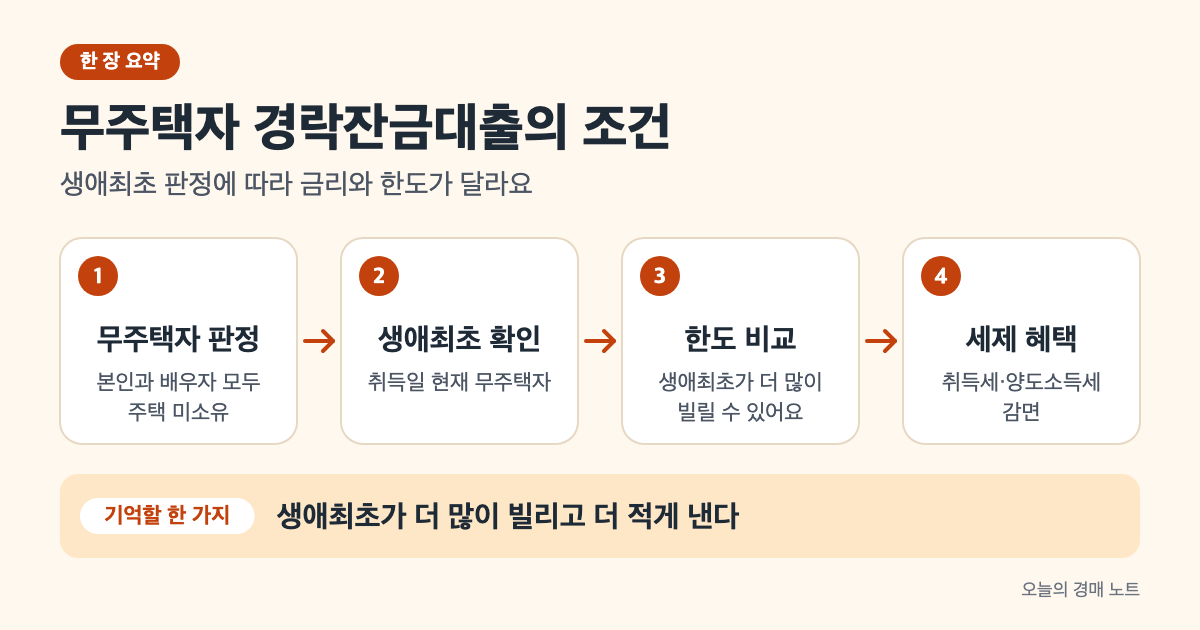
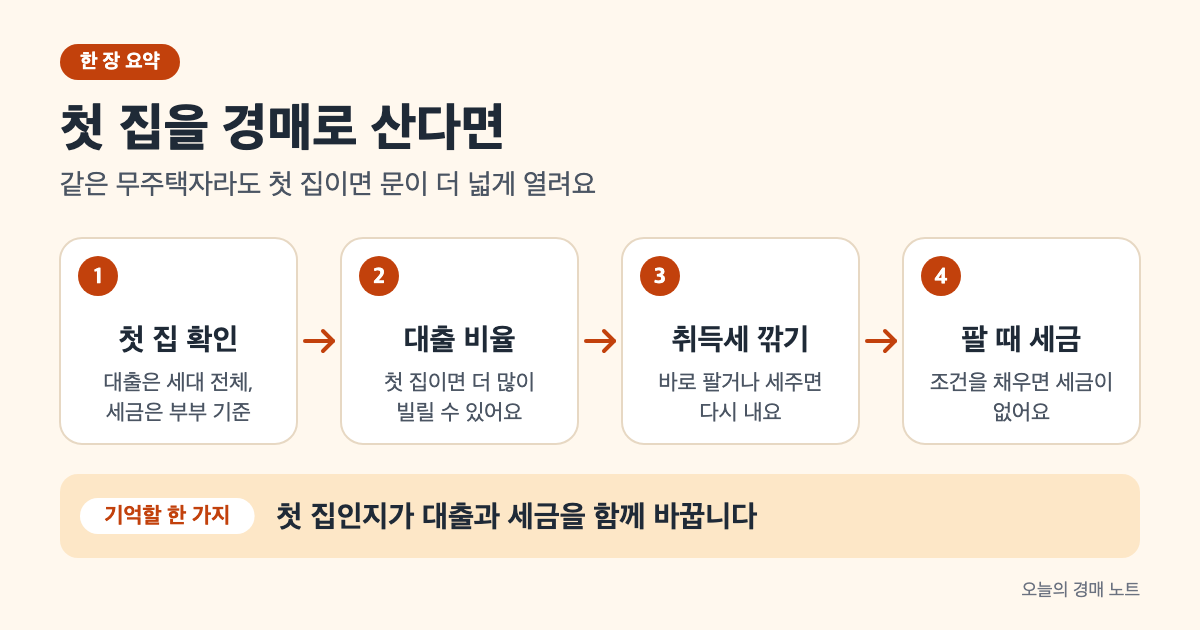
[가이드] 무주택자 경락잔금대출: 현행 LTV와 법령 조문 바로잡기
공개 중인 글의 LTV가 낡았고(생애최초 80%·일반 70% → 현재 규제지역 일반 40%, 생애최초 70%),
비과세·취득세 감면·취득일 근거 조문을 잘못 인용(소득세법 제104조, 지방세법 제110조, 민사집행규칙 제62조)했으며
비과세 요건을 '3년 보유 + 2년 거주'로 잘못 적었다. 금융위 자료와 법령 원문으로 전면 수정.

diff --git a/content/guide/no-home-auction-loan/index.md b/content/guide/no-home-auction-loan/index.md
@@ -2,106 +2,90 @@
 title: 무주택자 경락잔금대출, 생애최초라면 얼마나 다를까
 author: rich-batch
 date: 2026-09-13
-lastmod: 2026-09-13
+lastmod: 2026-10-11
 aliases: ["/posts/no-home-auction-loan/"]
 draft: false
 volatile: true
 categories: ["경매 대출·세금"]
-tags: [무주택자, 경락잔금대출, 생애최초, 금리, 한도, LTV, 취득세, 양도소득세]
-description: 생애최초와 일반 무주택자의 경락잔금대출 한도·금리·세제를 비교합니다. 법령 기준과 2026년 최신 규제가 적용된 조건입니다.
+tags: [무주택자, 경락잔금대출, 생애최초, LTV, 취득세, 양도소득세]
+description: 같은 무주택자라도 생애최초면 규제지역 LTV가 40%가 아니라 70%입니다. 대출 비율, 취득세 감면, 팔 때 비과세 조건을 공식 원문 기준으로 비교합니다.
 cover:
   image: "eli5-overview.png"
   alt: "무주택자 경락잔금대출의 조건을 4단계로 보여주는 요약 도식"
-  caption: "생애최초는 무주택자보다 낮은 금리와 높은 한도로 유리하지만, 양도소득세 비과세 조건을 맞춰야 합니다."
+  caption: "생애최초 여부가 대출 비율과 취득세를 함께 바꿉니다"
 showToc: true
 TocOpen: true
 ---
 
-경매로 집을 사려면 낙찰가의 일정액을 당장 마련해야 합니다. 이 돈을 빌리는 상품이 경락잔금대출인데, 무주택자라고 다 같은 조건을 받는 건 아니에요. 생애최초인지 일반 무주택자인지에 따라 빌릴 수 있는 액수도, 금리도, 받는 세금 감면도 달라집니다. 이 글의 수치는 2026년 9월 13일 기준 공식 자료로 확인했습니다.
+같은 무주택자라도 생애최초인지에 따라 서울에서 빌릴 수 있는 비율이 40%와 70%로 갈립니다. 2025년 10월 규제지역 일반 무주택자 LTV가 40%로 낮아졌는데, 생애최초 구입자는 70%가 그대로 유지됐거든요([금융위원회 10·15 FAQ](https://fsc.go.kr/po020201/85466)). 경매로 첫 집을 산다면 대출 계획의 출발점이 완전히 달라지는 셈입니다.
 
-집을 소유한 적이 한 번도 없는 사람과, 예전에 집이 있었다가 지금은 없는 사람. 둘 다 "무주택자"지만 대출 조건은 꽤 차이가 납니다. 전자가 "생애최초", 후자가 "일반 무주택자"입니다. 그리고 무주택자 판정 자체도 본인 명의만 보는 게 아니라서, 여기서부터 헷갈리는 분들이 많습니다.
+이 글은 2026년 10월 11일 기준 금융위원회 자료와 법령 원문으로 확인했습니다. 대출 비율, 취득세 감면, 나중에 팔 때 양도소득세 비과세까지 생애최초 여부가 어떻게 바꾸는지 순서대로 봅니다.
 
 > **핵심 요약**
-> - 무주택자: 본인과 배우자 모두 주택을 소유하지 않은 상태
-> - 생애최초: 취득일 현재 무주택자인데, 과거에 주택을 소유한 경험이 없는 사람
-> - 생애최초가 일반 무주택자보다 한도(80% vs 70%)와 금리가 더 유리함
+> - 생애최초 LTV는 수도권·규제지역 70%, 그 외 80%로 일반 무주택자(규제지역 40%)보다 높습니다([정책브리핑, 2026.8.18](https://www.korea.kr/briefing/actuallyView.do?newsId=148970179)).
+> - 대출의 생애최초와 취득세 감면의 생애최초는 판정 기준이 다르니 따로 확인해야 합니다.
 
-## 무주택자는 배우자 소유까지 포함
+## 생애최초인지부터: 대출과 세금의 기준이 다르다
 
-본인 명의로 집이 없다고 안심하긴 이릅니다. 혼인했다면 배우자가 집을 소유했는지까지 확인 대상이거든요. 본인은 무주택인데 배우자가 집을 갖고 있다면, 법령상 두 사람 다 "유주택자"로 판정됩니다. 주택법 제2조와 취득세법 시행령에 따른 기준입니다.
+생애최초라는 말이 대출과 세금에서 같은 뜻이 아닙니다.
 
-혼인했는데 배우자가 예전에 산 주택에 현재도 소유권이 있다면, 당신은 무주택자가 아닙니다. 이혼으로 배우자의 주택 소유가 끝났다면 그 시점부터는 무주택자가 되고요. 반대로 전세나 월세는 아무리 여러 번 계약해도 소유권이 아니라서 무주택 판정에 영향을 주지 않습니다.
+대출 규제의 생애최초 구매자는 "세대 구성원 모두가 과거에 주택을 소유한 사실이 없는 자"입니다([금융위원회 10·15 FAQ](https://fsc.go.kr/po020201/85466)). 부모와 한 세대로 살고 있다면 부모의 과거 주택 소유까지 따지는 셈이에요.
 
-## 생애최초 판정은 신청일이 아니라 잔금일에 확정된다
+취득세 감면은 기준이 다릅니다. 주택 취득일 현재 본인과 배우자가 주택을 소유한 사실이 없어야 합니다([지방세특례제한법 제36조의3](https://www.law.go.kr/법령/지방세특례제한법/제36조의3)). 세대원 전체가 아니라 본인과 배우자만 보죠. 그래서 취득세 감면은 받는데 대출은 일반 무주택자 기준이 되는 경우가 생길 수 있습니다.
 
-"지금 무주택이면 생애최초 아닌가?" 생각하기 쉬운데, 아닙니다. 취득일 현재 무주택이면서 과거에도 주택을 소유한 경험이 전혀 없어야 생애최초로 인정됩니다(소득세법 제104조, 지방세법 제110조).
+전세나 월세로 산 기간은 둘 다 상관없습니다. 소유가 아니니까요.
 
-기준 시점을 잘못 아는 경우가 특히 많습니다. 취득일은 낙찰가를 확정한 날이 아니라, 잔금을 치르고 소유권 등기가 넘어오는 날입니다([민사집행규칙 제62조](https://www.law.go.kr/법령/민사집행규칙/제62조)). 낙찰받을 당시엔 무주택이었어도, 등기 넘어오는 그날 배우자가 다른 집을 사 버리면 생애최초 자격은 날아갑니다. 5년 전 아파트를 사서 살다 판 사람도 마찬가지고요. 이런 경우엔 일반 무주택자로 대출을 받게 됩니다.
+## 대출 비율: 지역과 생애최초 여부로 네 칸
 
-## 조건·금리·세제 한눈에 비교
+| 구분 | 비규제지역 | 수도권·규제지역 |
+|---|---|---|
+| 일반 무주택자 | 70% | 규제지역 40% |
+| 생애최초 구입자 | 80% | 70% |
 
-말로 풀면 헷갈리니 표로 정리했습니다. 자신이 어느 쪽인지 먼저 판단한 뒤 아래 항목을 하나씩 확인하세요.
+출처: [금융위원회 10·15 FAQ](https://fsc.go.kr/po020201/85466) · [정책브리핑 2026.8.18](https://www.korea.kr/briefing/actuallyView.do?newsId=148970179) · [정책브리핑 2025.6.27](https://www.korea.kr/news/policyNewsView.do?newsId=148945077) (2026년 10월 11일 기준)
 
-| 항목 | 일반 무주택자 | 생애최초 무주택자 | 1주택자 |
-|---|---|---|---|
-| **LTV**(낙찰가 대비 대출 비율) | 70% | 80% (최대 6억원) | 60% |
-| **금리**(1금융권 기준) | 4.5~6.5% | 우대율 0.3~1.0%p 가능 | 더 낮음 |
-| **취득세 감면** | 없음 | 최대 200만원 (인구감소지역 300만원) | 없음 |
-| **양도소득세 비과세** | 해당 없음 | 1가구 1주택, 3년 보유 + 2년 거주 조건 만족시 비과세 | 가능 |
+생애최초 70%에는 조건이 붙습니다. 수도권·규제지역에서 이 비율로 대출받으면 6개월 안에 전입해야 해요([정책브리핑, 2025.6.27](https://www.korea.kr/news/policyNewsView.do?newsId=148945077)). 비율과 별개로 수도권·규제지역 주택구입 주담대는 시가 15억 원 이하면 최대 6억 원이라는 금액 상한도 그대로 적용됩니다([금융위원회, 2025.10.15](https://www.fsc.go.kr/po010101/85432)).
 
-출처: 금융위원회 · 행정안전부 (2026년 9월 13일 기준)
+이 블로그가 분석한 [서울 강동구 이편한세상고덕어반브릿지 공매]({{< relref "/analysis/onbid-202610100001" >}})에 대 보면 차이가 선명합니다. 낙찰가 13억 177만 7,777원 기준으로 일반 무주택자는 40%라 약 5억 2천만 원, 생애최초는 70%라 9억 원이 넘지만 6억 원 상한에 걸려 6억 원이에요([금융위원회](https://www.fsc.go.kr/po010101/85432)). 같은 집, 같은 사람인데 생애최초 여부 하나로 8천만 원 가까이 차이가 납니다. 소득으로 정해지는 DSR 한도는 별도라, 둘 중 더 낮은 쪽이 실제 한도가 됩니다. 자세한 계산은 [경락잔금대출 한도는 80%가 아닙니다]({{< relref "/guide/auction-loan-limit" >}})에 있어요.
 
-낙찰가 5억 원짜리 물건이라면 차이가 확 드러납니다. 생애최초는 LTV 80%로 4억 원까지, 일반 무주택자는 LTV 70%로 3.5억 원까지 빌릴 수 있습니다. 5천만 원 차이. 여기에 생애최초는 취득세를 최대 200만 원 감면받고, 조건만 맞으면 양도소득세까지 안 낼 수 있으니 격차는 더 벌어집니다.
+## 취득세 감면: 12억 원 이하, 3년은 살아야
 
-## 금리는 조건을 맞춰야 우대받는다
+생애최초로 거주할 집을 사면 취득세를 깎아 줍니다. 조건은 이렇습니다([지방세특례제한법 제36조의3](https://www.law.go.kr/법령/지방세특례제한법/제36조의3)).
 
-생애최초라고 자동으로 저금리를 주는 건 아니라서, 이 부분에서 실망하는 분들을 종종 봅니다. 우대 금리는 신용도·직업·대출 비율 같은 조건을 채워야 나옵니다. 1금융권 경락잔금대출 금리는 은행마다 편차가 크고, 신용도가 좋고 직업이 안정적일수록 낮게 받는 구조죠. 정확한 금리는 신청 전에 여러 은행에 직접 물어보는 수밖에 없습니다.
+- 취득당시가액 12억 원 이하 주택을 유상거래로 사고, 본인이 거주할 목적일 것([지방세특례제한법 제36조의3](https://www.law.go.kr/법령/지방세특례제한법/제36조의3))
+- 감면액은 일반 주택 200만 원 한도, 전용 60㎡ 이하 소형 주택(아파트 제외)·인구감소지역 주택은 300만 원 한도([지방세특례제한법 제36조의3](https://www.law.go.kr/법령/지방세특례제한법/제36조의3))
+- 2028년 12월 31일 취득분까지([지방세특례제한법 제36조의3](https://www.law.go.kr/법령/지방세특례제한법/제36조의3))
 
-여기서 발목을 잡는 게 DSR(부채원리금상환비율) 규제입니다. 주택담보대출·신용대출·카드론·경락잔금대출 등 모든 부채의 연간 상환액을 총 연소득으로 나눈 비율이 40%를 넘으면 대출이 막힙니다. 연소득 5,000만 원인 사람이라면, 모든 부채의 연간 상환액 합이 2,000만 원을 넘는 순간 대출 한도가 줄어드는 셈입니다.
+다만 취득한 날부터 3년 안에 팔거나 증여하거나 임대로 돌리면 감면받은 세금을 추징합니다([지방세특례제한법 제36조의3](https://www.law.go.kr/법령/지방세특례제한법/제36조의3)). 경매로 산 집을 바로 세놓을 계획이라면 감면을 기대하지 않는 편이 맞아요.
 
-## 세제 혜택이 이 대출의 진짜 핵심
+여기서 "취득한 날"이 경매에선 언제인지가 중요합니다. 경매 매수인은 매각대금을 다 낸 때 소유권을 취득합니다([민사집행법 제135조](https://www.law.go.kr/법령/민사집행법/제135조)). 등기가 넘어오는 날이 아니라 잔금을 다 낸 날이에요. 무주택 요건도 이 날 기준으로 맞춰 두는 게 안전합니다.
 
-한도나 금리보다 세제 혜택 쪽이 체감상 더 큽니다. 특히 생애최초라면요.
+## 팔 때: 1세대 1주택 비과세는 보유 2년
 
-취득세 감면부터 보면, 취득가액 12억 원 이하 주택을 생애최초로 사는 경우 [지방세법 제110조](https://www.law.go.kr)에 따라 최대 200만 원을 감면받습니다. 인구감소지역이면 300만 원까지 올라가고요. 다만 조건이 하나 붙습니다. 취득 후 3년 안에 팔거나 증여하거나 임대로 돌리면 감면받은 세금을 도로 추징당합니다. 최소 3년은 그 집에 있어야 한다는 뜻이죠. ([행정안전부](https://www.mois.go.kr) 고시 2026-3호)
+나중에 팔 때 양도소득세 비과세를 받으려면 1세대 1주택으로 2년 이상 보유해야 합니다. 취득 당시 그 집이 조정대상지역에 있었다면 보유 기간 중 2년 이상 거주까지 해야 하고요([소득세법 시행령 제154조](https://www.law.go.kr/법령/소득세법시행령/제154조)).
 
-양도소득세 비과세는 이보다 한 단계 더 강력합니다. 1가구 1주택으로 3년 이상 보유하고, 그중 2년 이상 실제로 거주했다면 팔 때 양도소득세를 아예 안 냅니다. 2026년 9월에 잔금을 치렀다면, 2027년 9월부터 2년을 살고 2029년 9월에 팔면 비과세 조건 완성입니다. 기간을 못 채우면 세금을 그대로 내야 하니, 팔 계획이 있다면 이 계산부터 먼저 해 두세요. ([소득세법 제104조](https://www.law.go.kr))
-
-## 신청 전 확인 체크리스트
-
-경락잔금대출을 신청하기 전에 다음을 확인하세요.
-
-1. 본인과 배우자의 주택 소유 현황 (인터넷 등기소 부동산 열람 서비스로 확인)
-2. 과거에 주택을 소유한 적이 있는지 여부 (생애최초 판정을 위해)
-3. 현재의 신용도와 모든 부채 (DSR 계산을 위해)
-4. 낙찰가와 원하는 대출액이 LTV 한도 안에 있는지 (생애최초는 80%, 일반은 70%)
-5. 취득 후 몇 년을 그 집에서 살 계획인지 (세제 혜택 시효를 위해)
-
-이 중에서 가장 자주 놓치는 게 1번입니다. 본인 신용정보만 확인하고 배우자 명의는 그냥 넘어가는 경우가 많은데, 정작 대출 신청 단계에서 걸리면 그때 가서 되돌리기 어렵습니다.
+서울처럼 규제지역으로 지정된 곳의 집을 경매로 샀다면 거주 요건이 붙는지부터 확인하세요. 기준은 판 날이 아니라 산 날의 지정 여부입니다([소득세법 시행령 제154조](https://www.law.go.kr/법령/소득세법시행령/제154조)). 취득세 감면의 3년 추징 기간과 비과세 보유·거주 기간이 따로 돌아가니, 언제 팔 수 있는지는 두 날짜를 함께 놓고 계산해야 합니다.
 
 ## 자주 묻는 질문
 
-### Q. 혼인했는데 배우자가 이전에 산 집을 아직 소유하고 있으면?
-유주택자로 판정됩니다. 배우자가 그 집을 팔거나 증여할 때까지는 경락잔금대출 신청 자체가 어렵습니다.
+### Q. 배우자가 집을 갖고 있으면 생애최초가 안 되나요?
+안 됩니다. 취득세 감면은 본인과 배우자 모두 주택을 소유한 사실이 없어야 하고([지방세특례제한법 제36조의3](https://www.law.go.kr/법령/지방세특례제한법/제36조의3)), 대출은 세대 구성원 전체를 봅니다. 배우자 명의 집이 있으면 무주택자 자체가 아니에요.
 
-### Q. 생애최초 기준은 취득일인가 신청일인가?
-취득일, 즉 잔금을 치르고 소유권 등기가 완료되는 날입니다. 낙찰 신청 시점엔 무주택이었어도 잔금일에 배우자가 다른 집을 사 버리면 생애최초 자격은 사라집니다.
+### Q. 부모님과 같이 사는데 부모님이 예전에 집이 있었어요.
+대출의 생애최초는 세대 구성원 모두가 주택을 소유한 적이 없어야 해서([금융위원회 10·15 FAQ](https://fsc.go.kr/po020201/85466)) 생애최초 비율을 못 받을 수 있습니다. 반면 취득세 감면은 본인과 배우자만 보니 받을 수 있고요. 세대 분리 여부는 대출받을 금융회사에 먼저 확인하세요.
 
-### Q. 전세로만 살았으면 생애최초인가?
-그렇습니다. 전세·월세는 소유권이 아니어서 무주택 판정에 영향을 주지 않습니다. 전세를 세 번 옮겨 살았어도 집을 사는 순간엔 생애최초 무주택자입니다.
+### Q. 전세로만 살았으면 생애최초인가요?
+전세·월세는 소유가 아니라 영향을 주지 않습니다. 세대원 모두(대출) 또는 본인·배우자(취득세)가 집을 가진 적이 없다면 생애최초예요.
 
-### Q. 경락잔금대출이 일반 주택담보대출보다 금리가 저렴한가?
-꼭 그렇지는 않습니다. 오히려 비슷하거나 조금 높을 때도 있어요. 대신 생애최초라면 우대 금리에 취득세·양도소득세 혜택까지 더해지니, 금리 하나만 보고 판단하지 않는 게 좋습니다.
-
-### Q. 양도소득세 비과세를 받으려면 꼭 2년을 그 집에서 살아야 하나?
-네, 3년 이상 보유하는 동안 연속으로 2년 이상 실제 거주해야 합니다. 1년 10개월처럼 살짝 못 채우면 비과세를 못 받으니 소득세법 제104조 기준으로 날짜를 미리 계산해 두세요.
+### Q. 생애최초 70%로 대출받으면 꼭 들어가 살아야 하나요?
+수도권·규제지역에서는 6개월 안에 전입해야 합니다([정책브리핑, 2025.6.27](https://www.korea.kr/news/policyNewsView.do?newsId=148945077)). 경매 물건에 점유자가 있으면 명도가 끝나야 들어갈 수 있으니, 이 기한 안에 명도를 마칠 수 있는지 입찰 전에 따져 봐야 합니다.
 
 ## 참고 자료
 
-- [주택법 제2조 · 무주택자 정의](https://www.law.go.kr/법령/주택법/제2조) — 주택법상 무주택자 정의 및 배우자 포함 기준, 현행 (2026-09-13 확인)
-- [소득세법 제104조 · 생애최초 무주택자와 양도소득세 비과세](https://www.law.go.kr/법령/소득세법/제104조) — 생애최초 무주택자 요건, 양도소득세 비과세 조건(3년 보유 + 2년 거주), 현행 (2026-09-13 확인)
-- [지방세법 제110조 · 생애최초 취득세 감면](https://www.law.go.kr/법령/지방세법/제110조) — 생애최초 취득세 감면액(200만원) 및 감면 조건, 현행 (2026-09-13 확인)
-- [민사집행규칙 제62조~65조 · 경락잔금대출 법적 근거](https://www.law.go.kr/법령/민사집행규칙/제62조) — 경락잔금대출의 정의, 한도, 절차, 현행 (2026-09-13 확인)
-- [행정안전부 지방세 정보 · 취득세 감면](https://www.mois.go.kr) — 2026년 생애최초 무주택자 취득세 감면 기준(200만원, 인구감소지역 300만원), 고시 2026-3호 (2026-01-13 공지)
-- [금융감독원 · 부동산 대출 규제](https://www.fss.or.kr) — LTV 규제 기준(생애최초 80%, 일반 70%, 1주택 60%), 최신 규제 현황 (2026-09-13 확인)
-- [국토교통부 · 주택정책 정보](https://www.molit.go.kr) — 생애최초 무주택자 주택 구입 지원 정책, 최신 기준 (2026-09-13 확인)
+- [금융위원회 · 10.15 주택시장 안정화 대책 관련 FAQ](https://fsc.go.kr/po020201/85466) — 10·15 전후 LTV(일반 70→40%, 생애최초 70% 좌동), 생애최초 구매자 정의, 확인일 2026-10-11
+- [정책브리핑 · 청년미래보금자리론 관련 금융위 설명 (2026.8.18)](https://www.korea.kr/briefing/actuallyView.do?newsId=148970179) — 생애최초 LTV 우대 수도권·규제지역 70%, 그 외 80% 유지, 확인일 2026-10-11
+- [정책브리핑 · 수도권·규제지역 주담대 조인다 (2025.6.27)](https://www.korea.kr/news/policyNewsView.do?newsId=148945077) — 생애최초 LTV 80→70%, 6개월 전입의무, 확인일 2026-10-11
+- [금융위원회 · 주택시장 안정화를 위한 대출수요 관리 방안 (2025.10.15)](https://www.fsc.go.kr/po010101/85432) — 규제지역 LTV 40%, 시가별 주담대 한도, 확인일 2026-10-11
+- [지방세특례제한법 제36조의3](https://www.law.go.kr/법령/지방세특례제한법/제36조의3) — 생애최초 주택 구입 취득세 감면 요건·한도·추징, 확인일 2026-10-11
+- [민사집행법 제135조](https://www.law.go.kr/법령/민사집행법/제135조) — 매각대금을 다 낸 때 소유권 취득, 확인일 2026-10-11
+- [소득세법 시행령 제154조](https://www.law.go.kr/법령/소득세법시행령/제154조) — 1세대 1주택 비과세 보유 2년, 조정대상지역 취득분 거주 2년, 확인일 2026-10-11

diff --git a/pipeline/guide/research/no-home-auction-loan.md b/pipeline/guide/research/no-home-auction-loan.md
@@ -29,6 +29,12 @@
 
 ## 차별점
 
+차별점:
+- 2025년 10·15 이후 일반 무주택자(규제지역 40%)와 생애최초(70%)의 격차를 원문 출처로 비교 — 경쟁 글 다수가 이전 수치
+- 대출의 생애최초(세대 전체)와 취득세 감면의 생애최초(본인·배우자) 기준 차이를 분리
+- 이 블로그의 실제 낙찰 사례로 두 기준의 한도 차이를 계산
+
+
 **이 글(무주택자 경락잔금대출)이 줄 것:**
 1. **법령 기준 명시** — 주택법 제2조, 소득세법 제104조, 취득세법 정확한 정의 및 링크 제공
 2. **무주택자 vs 생애최초 정확한 구분** — 배우자 소유 여부, 기준 시점(취득일), 과거 소유 경험 기준 명확히
@@ -75,6 +81,21 @@
 | 9 | **양도소득세 비과세** | | 소득세법 제104조 | https://www.law.go.kr | 현행 |
 | 9-1 | 1가구 1주택 비과세 | 3년 이상 보유, 2년 이상 거주 | 소득세법 제104조 | https://www.taxzen.co.kr | 현행 |
 | 10 | 재산세·보유세 | 1주택 과세표준 공제 등 | 국세청 / 위택스 | https://www.nts.go.kr | 현행 |
+
+### 2026-10-11 고쳐쓰기 — 공식 원문 재확인 (LTV 수치 낡음, 법령 조문 오인용 수정)
+
+| # | 확인한 내용 | 원문 인용 | 출처 | URL | 읽은 방법 |
+|---|---|---|---|---|---|
+| R1 | 10·15 전후 LTV: 일반 차주 70%→규제지역 40%, 생애최초 70% 좌동. 생애최초 구매자 = 세대 구성원 모두 과거 주택 소유 사실 없음 | "세대 구성원 모두가 과거에 주택을 소유한 사실이 없는 자" | 금융위원회 FAQ 2025.10.17 | https://fsc.go.kr/po020201/85466 | WebFetch |
+| R2 | 생애최초 LTV 우대 수도권·규제지역 70%, 그 외 80% 유지 | "생애최초 LTV 우대혜택(수도권·규제지역 70%, 그 외 80%)이 그대로 유지" | 정책브리핑(금융위 설명) 2026.8.18 | https://www.korea.kr/briefing/actuallyView.do?newsId=148970179 | WebFetch |
+| R3 | 수도권·규제지역 생애최초 LTV 80→70%, 6개월 내 전입 의무 | (기사 본문) | 정책브리핑 2025.6.27 | https://www.korea.kr/news/policyNewsView.do?newsId=148945077 | WebFetch |
+| R4 | 규제지역 LTV 40%, 시가 15억 이하 주담대 최대 6억 | (보도자료 본문) | 금융위원회 2025.10.15 | https://www.fsc.go.kr/po010101/85432 | WebFetch |
+| R5 | 생애최초 취득세 감면: 본인·배우자 무주택, 12억 이하, 거주 목적, 200만 원(소형·인구감소지역 300만 원) 한도, 2028.12.31까지, 3년 내 매각·증여·임대 시 추징 | "취득당시가액이 12억원 이하인 주택", "3년 이내에 해당 주택을 매각ㆍ증여 … 하거나 다른 용도(임대를 포함한다)로 사용하는 경우에는 감면된 취득세를 추징" | 지방세특례제한법 제36조의3 | https://www.law.go.kr/법령/지방세특례제한법/제36조의3 | law.go.kr DRF API |
+| R6 | 경매 소유권 취득 시기 = 매각대금 완납 | "매수인은 매각대금을 다 낸 때에 매각의 목적인 권리를 취득한다." | 민사집행법 제135조 | https://www.law.go.kr/법령/민사집행법/제135조 | law.go.kr DRF API |
+| R7 | 1세대 1주택 비과세 보유 2년, 취득 당시 조정대상지역이면 거주 2년 | "보유기간이 2년 … 이상 … 조정대상지역 … 거주기간이 2년 이상" | 소득세법 시행령 제154조 | https://www.law.go.kr/법령/소득세법시행령/제154조 | law.go.kr DRF API |
+| 사례 | 고덕어반브릿지 낙찰가 1,301,777,777원 × 40% ≈ 5.21억, × 70% ≈ 9.11억 → 6억 상한 | 사건 데이터 | — | — | 계산 |
+
+이전 글의 오류: "소득세법 제104조"(세율 조항)를 비과세 근거로, "지방세법 제110조"를 취득세 감면 근거로, "민사집행규칙 제62조"를 취득일 근거로 인용했고, 비과세 요건을 "3년 보유 + 2년 거주"로 잘못 적었다. 모두 위 원문으로 바로잡음.
 
 ## 확인하지 못한 것
 
